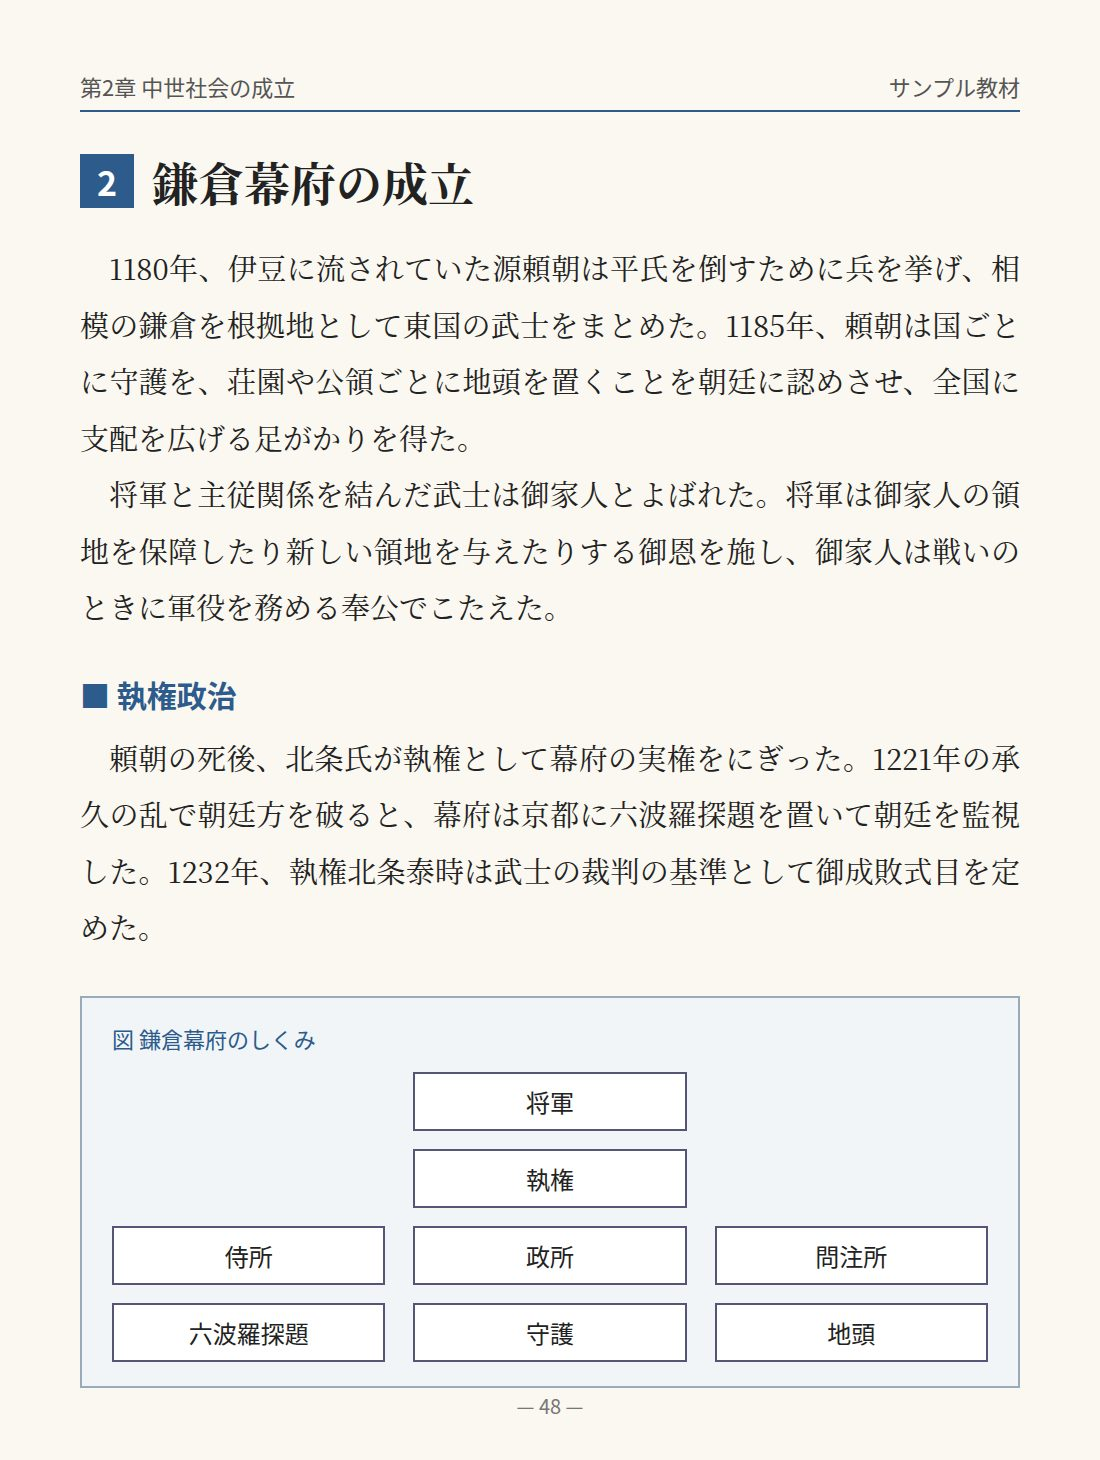
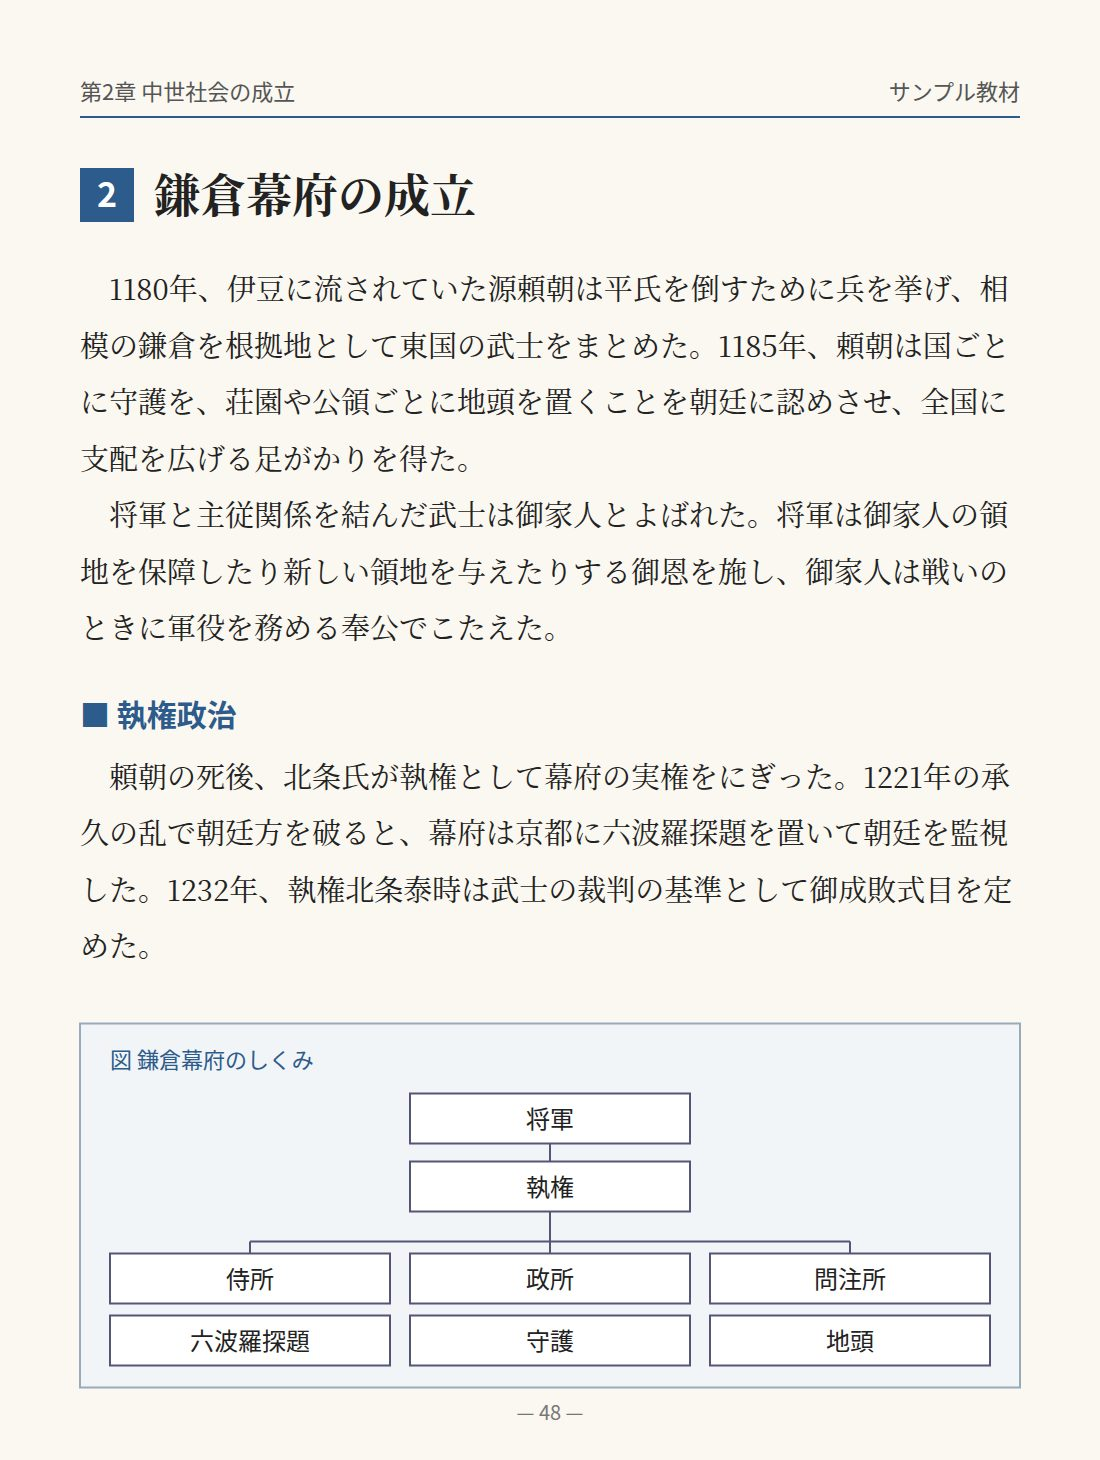
Replace the sample page with a self-drawn SVG and rasterize it via npm run sample

diff --git a/scripts/render-sample.js b/scripts/render-sample.js
@@ -1,13 +1,19 @@
-// Renders scripts/sample-page.html into assets/sample/textbook.jpg (the bundled sample textbook page).
+// Rasterizes the self-drawn assets/sample/textbook.svg into assets/sample/textbook.jpg, the bundled sample page.
+// The app needs a raster (the image pipeline and Expo Go cannot decode SVG); the SVG stays the source of truth.
+// Japanese text needs a CJK font (e.g. Noto Sans/Serif CJK JP) installed where this runs.
+const fs = require('fs');
 const path = require('path');
 const { chromium } = require('@playwright/test');
 
+const dir = path.join(__dirname, '..', 'assets', 'sample');
+
 (async () => {
+  const svg = fs.readFileSync(path.join(dir, 'textbook.svg'), 'utf8');
   const browser = await chromium.launch();
   const page = await browser.newPage({ viewport: { width: 1100, height: 1460 }, deviceScaleFactor: 1 });
-  await page.goto(`file://${path.join(__dirname, 'sample-page.html')}`);
-  await page.waitForTimeout(300);
-  const out = path.join(__dirname, '..', 'assets', 'sample', 'textbook.jpg');
+  await page.setContent(`<html><body style="margin:0">${svg}</body></html>`);
+  await page.evaluate(() => document.fonts.ready);
+  const out = path.join(dir, 'textbook.jpg');
   await page.screenshot({ path: out, type: 'jpeg', quality: 82 });
   await browser.close();
   console.log(`wrote ${out}`);
